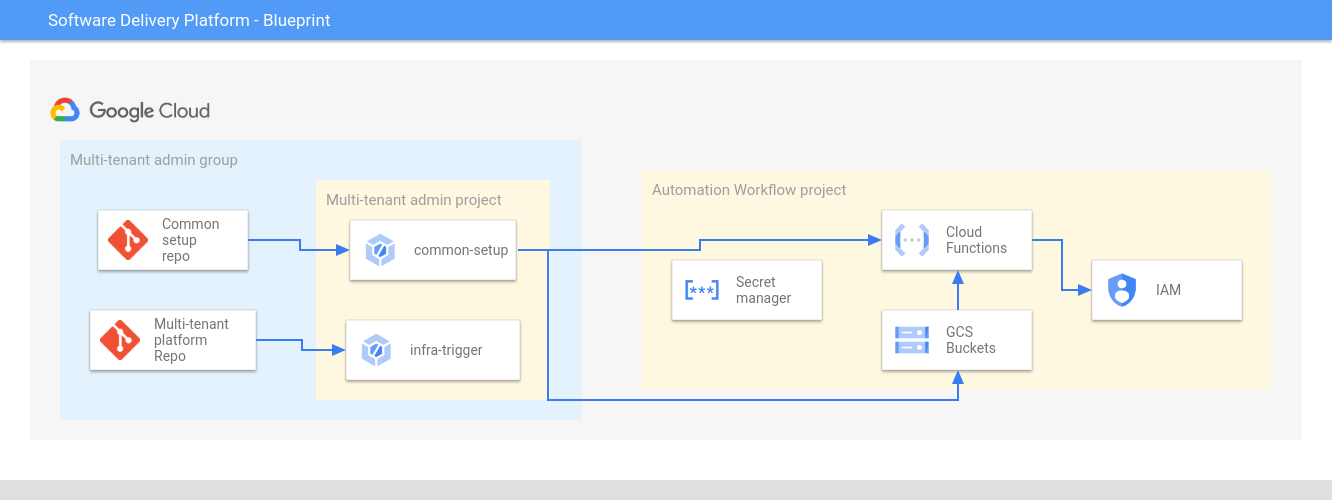
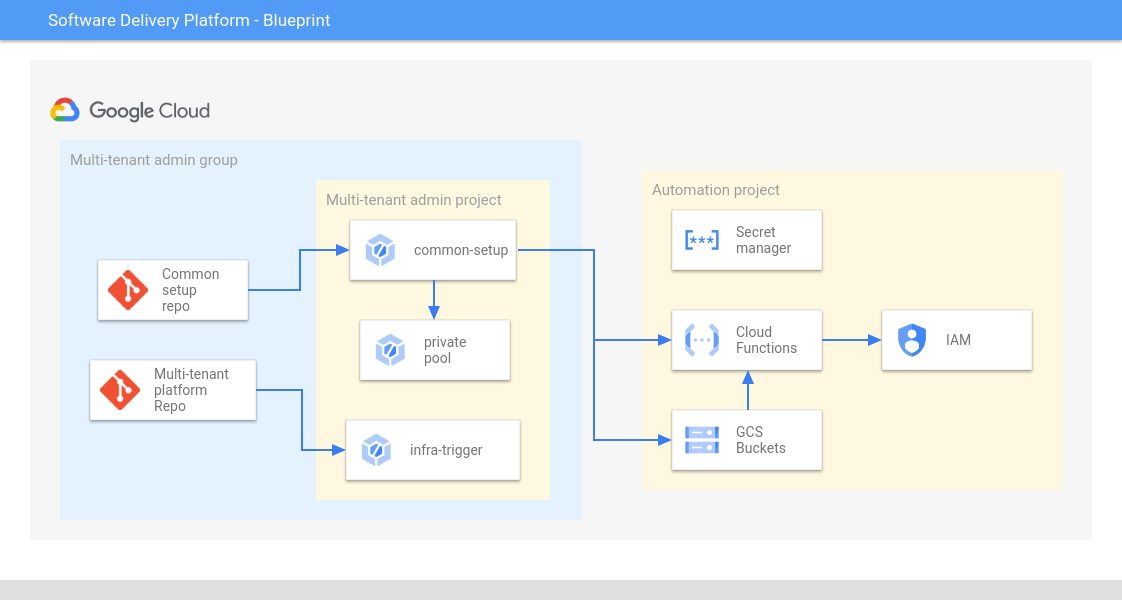
Adding private pools.

diff --git a/common-setup/README.md b/common-setup/README.md
@@ -25,19 +25,24 @@ The `common-setup` repo is connected to a [Cloud Build][cloud-build] trigger in 
 
 ### Automation Workflows
 
-When the [Cloud Build][cloud-build] trigger in multi-tenant admin project that is connected to `common-setup` repo runs, it creates three [Cloud Functions][cloud-function]:
-1. add-secret-permission
-   1. This [Cloud Function][cloud-function] is used to provide read permission on secrets stored in secretmanager to application service accounts. 
-   2. The [Cloud Function][cloud-function] is triggered when an object arrives in the GCS bucket `add-secret-permission-trg`. 
-   3. The Application Factory while creating a new application writes the service account that needs this access to the GCS bucket `add-secret-permission-trg` as an object. This invokes the Cloud Function that provides the service account the required access.
-2. add-billing-permission
-   1. This [Cloud Function][cloud-function] is used to provide billing user role to application service accounts so that they can create new projects.
-   2. The [Cloud Function][cloud-function] is triggered when an object arrives in the GCS bucket `add-billing-permission-trg`.
-   3. The Application Factory while creating a new application writes the service account that needs this access to the GCS bucket `add-billing-permission-trg` as an object. This invokes the Cloud Function that provides the service account the required access.
-3. add-project-permission
-   1. This [Cloud Function][cloud-function] is used to provide project creator role to application service accounts so that they can create new projects.
-   2. The [Cloud Function][cloud-function] is triggered when an object arrives in the GCS bucket `add-project-permission-trg`.
-   3. The Application Factory while creating a new application writes the service account that needs this access to the GCS bucket `add-project-permission-trg` as an object. This invokes the Cloud Function that provides the service account the required access.
+When the [Cloud Build][cloud-build] trigger in multi-tenant admin project that is connected to `common-setup` repo runs, it creates:
+
+- Three [Cloud Functions][cloud-function] and [GCS buckets][gcs]:
+   1. add-secret-permission function in automation workflow project.
+      1. This [Cloud Function][cloud-function] is used to provide read permission on secrets stored in secretmanager to application service accounts. 
+      2. The [Cloud Function][cloud-function] is triggered when an object arrives in the GCS bucket `add-secret-permission-trg`. 
+      3. The Application Factory while creating a new application writes the service account that needs this access to the GCS bucket `add-secret-permission-trg` as an object. This invokes the Cloud Function that provides the service account the required access.
+   2. add-billing-permission function in multi-tenant admin project.
+      1. This [Cloud Function][cloud-function] is used to provide billing user role to application service accounts so that they can create new projects.
+      2. The [Cloud Function][cloud-function] is triggered when an object arrives in the GCS bucket `add-billing-permission-trg`.
+      3. The Application Factory while creating a new application writes the service account that needs this access to the GCS bucket `add-billing-permission-trg` as an object. This invokes the Cloud Function that provides the service account the required access.
+   3. add-project-permission function in multi-tenant admin project.
+      1. This [Cloud Function][cloud-function] is used to provide project creator role to application service accounts so that they can create new projects.
+      2. The [Cloud Function][cloud-function] is triggered when an object arrives in the GCS bucket `add-project-permission-trg`.
+      3. The Application Factory while creating a new application writes the service account that needs this access to the GCS bucket `add-project-permission-trg` as an object. This invokes the Cloud Function that provides the service account the required access.
+
+- A VPC in multi-tenant admin project for peering with Cloud Build service producer network. 
+- [Cloud Build private pool][private-pool] in multi-tenant admin project that will be running the pipelines multi-tenant project and application factory. 
 
 ## Usage
 
@@ -51,3 +56,5 @@ agreement with Google.
 [bootstrap]: ../launch-scripts/bootstrap.sh
 [cloud-build]: https://cloud.google.com/build/docs/overview
 [cloud-function]: https://cloud.google.com/functions
+[private-pool]: https://cloud.google.com/build/docs/private-pools/private-pools-overview
+[gcs]: https://cloud.google.com/storage

diff --git a/platform-template/README.md b/platform-template/README.md
@@ -23,18 +23,20 @@ The above diagram depicts the architecture used for the multi-tenant infrastruct
 ### Infrastructure pipeline
 
 The multi-tenant IaC platform repo follows the [branch and folder pattern][next19-infra-as-code]
-to reperesent and manage environments. The repo contains three branches
+to represent and manage environments. The repo contains three branches
 and folders dev, staging and prod. You can only push to dev branch, in order
 to push the code to higher branches, use pull requests to review and merge
 changes into the staging and production environments.
 
-The multi-tenant platform repo is connected to a [Cloud Build][cloud-build] trigger in multi-tenant admin project and listens to any push that happens on this repo. When a push happens, the trigger catches the branch where the push happened and executes the Terraform in the corresponding directory under env directory. This results in creation of multi-tenant infrastructure for that environment.
+The multi-tenant platform repo is connected to a [Cloud Build][cloud-build] trigger in multi-tenant admin project and listens to any push that happens on this repo. When a push happens, the trigger catches the branch where the push happened and executes the Terraform in the corresponding directory under env directory. This results in creation of multi-tenant infrastructure for that environment which includes a [private GKE cluster][gke] and [Cloud Build private pool][private-pool].
 
 Each environment has their own set of Terraform files under their folder, so
 you can make customizations in an environment by adding or removing code in
 their files without impacting the other environments. e.g you can add code to
 your dev Terraform files to create a GCS bucket and, it will only be created in
 dev without impacting other environment.
+
+The infrastructure pipeline is run with private pool created via [common-setup pipeline][common-setup-pipeline].
 
 ### Application landing zones
 
@@ -76,3 +78,6 @@ agreement with Google.
 [software-delivery-infra]: ../launch-scripts/bootstrap.sh
 [next19-infra-as-code]: https://www.youtube.com/watch?v=3vfXQxWJazM
 [cloud-build]: https://cloud.google.com/build/docs/overview
+[common-setup-pipeline]: ../common-setup/README.md#automation-workflows
+[gke]: https://cloud.google.com/kubernetes-engine
+[private-pool]: https://cloud.google.com/build/docs/private-pools/private-pools-overview

diff --git a/README.md b/README.md
@@ -58,7 +58,7 @@ Platform developers and administrators use an infrastructure as code pipeline in
 
 The multi-tenant infrastructure component is a set of projects corresponding to the application environments. These projects contain resources used by several applications, to maximize resource utilization, governance and minimize operational overhead.
 
-In the base blueprint, the shared resources are [Google Kubernetes Engine][gke] (GKE) clusters, but this could be extended to include other resources like databases, buckets, etc. The goal of the multi-tenant infrastructure is to improve efficiency in terms of operational overhead, resource utilization (cost) and consistency between environments (development, staging and production).
+In the base blueprint, the shared resources are [Google Kubernetes Engine][gke] (GKE) clusters and [Cloud Build private pools][private-pool], but this could be extended to include other resources like databases, buckets, etc. The goal of the multi-tenant infrastructure is to improve efficiency in terms of operational overhead, resource utilization (cost) and consistency between environments (development, staging and production).
 
 Along with multi-tenant infrastructure , there are Automation workflows that remove the manual steps in Application and Infrastructure onboarding like access provisioning etc. These workflows are serviced by [Cloud Functions][cloud-function] and created in a separate project.
 
@@ -156,3 +156,4 @@ agreement with Google.
 [cloud-build]: https://cloud.google.com/build/docs/overview
 [gke]: https://cloud.google.com/kubernetes-engine
 [cloud-function]: https://cloud.google.com/functions
+[private-pool]: https://cloud.google.com/build/docs/private-pools/private-pools-overview

diff --git a/app-factory-template/README.md b/app-factory-template/README.md
@@ -122,6 +122,8 @@ The application factory has four Cloud Build tiggers, each are defined as yaml f
 3.  `tf-plan`, performs a Terraform plan.
 4.  `tf-apply`, performs Terraform apply, updating the provisioned applications and teams in GitHub.
 
+The triggers in Application Factory is run with private pool created via [common-setup pipeline][common-setup-pipeline].
+
 Note: The script bootstrap.sh that creates your application factory accepts an input "TRIGGER_TYPE" which can be either `webhook` or `github`. 
 If `github` is passed as "TRIGGER_TYPE" to the script, the script creates GitHub triggers in Cloud Build. 
 If `webhook` is passed as "TRIGGER_TYPE" to the script, the script creates webhook triggers in Cloud Build. 
